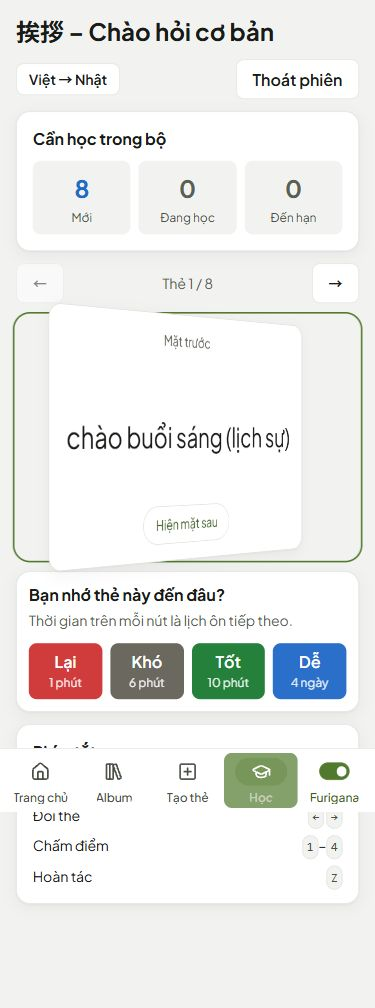
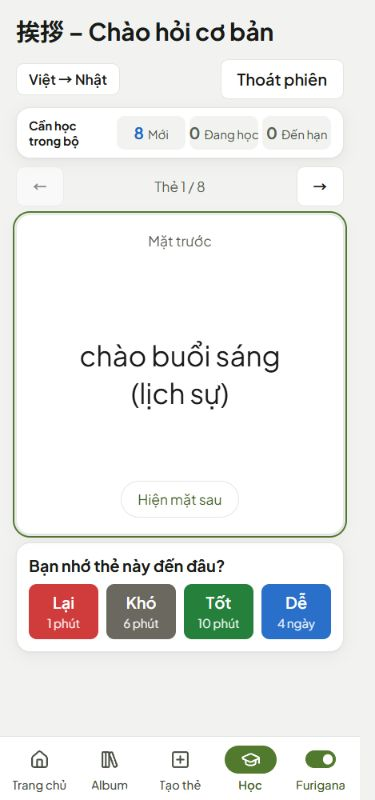
học: căn thẻ phẳng và thu gọn bố cục mobile

diff --git a/pages/study/study.css b/pages/study/study.css
@@ -397,3 +397,74 @@
   .study-ratings .btn { min-height: 5rem; padding: 0.75em; }
   .study-ratings .btn small { font-size: 0.75em; }
 }
+
+@media (max-width: 767px) {
+  .study-main {
+    padding-bottom: calc(var(--tabbar-height) + env(safe-area-inset-bottom, 0px) + var(--space-4));
+  }
+
+  .study-session,
+  .study-workspace { gap: var(--space-2); }
+
+  .study-shortcuts { display: none; }
+
+  .study-queue {
+    display: flex;
+    align-items: center;
+    gap: var(--space-2);
+    padding: var(--space-2) var(--space-3);
+  }
+
+  .study-queue h2 {
+    max-width: 5rem;
+    font-size: var(--text-xs);
+  }
+
+  .study-queue-counts {
+    flex: 1;
+    margin: 0;
+    gap: var(--space-1);
+  }
+
+  .study-queue-counts .count {
+    display: flex;
+    justify-content: center;
+    align-items: baseline;
+    gap: var(--space-1);
+    padding: var(--space-1);
+    white-space: nowrap;
+    font-size: var(--text-xs);
+  }
+
+  .study-queue-counts b { font-size: var(--text-base); }
+
+  /* Hai mặt dùng chung ô grid; đổi mặt tức thì để thẻ luôn nằm phẳng. */
+  .study-card,
+  .study-card .flashcard-inner,
+  .study-card.is-flipped .flashcard-inner,
+  .study-card .flashcard-face {
+    width: 100%;
+    min-width: 0;
+    margin: 0;
+    transform: none;
+    perspective: none;
+    transform-style: flat;
+    transition: none;
+  }
+
+  .study-card .flashcard-face {
+    min-height: 40vh;
+    padding: var(--space-4);
+    gap: var(--space-2);
+  }
+
+  .study-card .flashcard-face[aria-hidden='true'] { visibility: hidden; }
+  .study-card-text { font-size: clamp(1.75rem, 7vw, 2.25rem); }
+  .study-card-meaning { font-size: clamp(1.5rem, 6vw, 2rem); }
+  .study-card-example { font-size: var(--text-lg); max-block-size: 5rem; }
+
+  .study-rate-panel { padding: var(--space-3); gap: var(--space-2); }
+  .study-rate-heading p { display: none; }
+  .study-ratings { gap: var(--space-2); }
+  .study-ratings .btn { min-height: 48px; }
+}

diff --git a/docs/process.md b/docs/process.md
@@ -16,6 +16,13 @@
 
 ---
 
+## 2026-11-18 — Sửa bố cục mobile trang Học
+
+- **Người làm:** At, cùng Codex.
+- **Đã làm:** media query max-width 767px đặt thẻ phẳng, hai mặt đổi bằng aria-hidden, bỏ chuyển động 3D trên mobile; chiều cao 40vh, chữ lớn hơn; bộ đếm gọn một hàng; ẩn Phím tắt, thêm khoảng đệm đáy theo tabbar và safe-area. Thanh nav chung đã có nền đặc và viền trên. Nút chấm tối thiểu 48px.
+- **Kiểm tra:** Chrome tại 360/375/390/430 × 800: không cuộn ngang, thẻ cao 320px, nút khoảng 55px, đáy nút 639px trước nav ở 736px. Đổi thẻ bằng phím mũi tên reset về mặt trước và transform none. Console không lỗi. Ảnh study-mobile-*.jpg, cập nhật s11-mobile.jpg.
+- **Quyết định:** chỉ sửa CSS trong media query mobile, desktop dùng các quy tắc hiện có.
+
 ## 2026-11-18 — Mở rộng trang Học trên desktop lớn
 
 - **Người làm:** At, cùng Codex.
